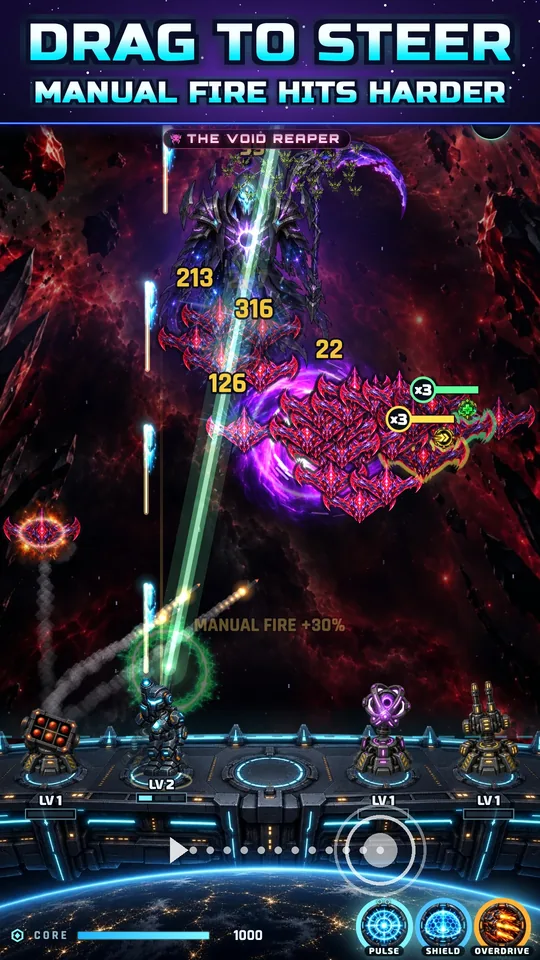
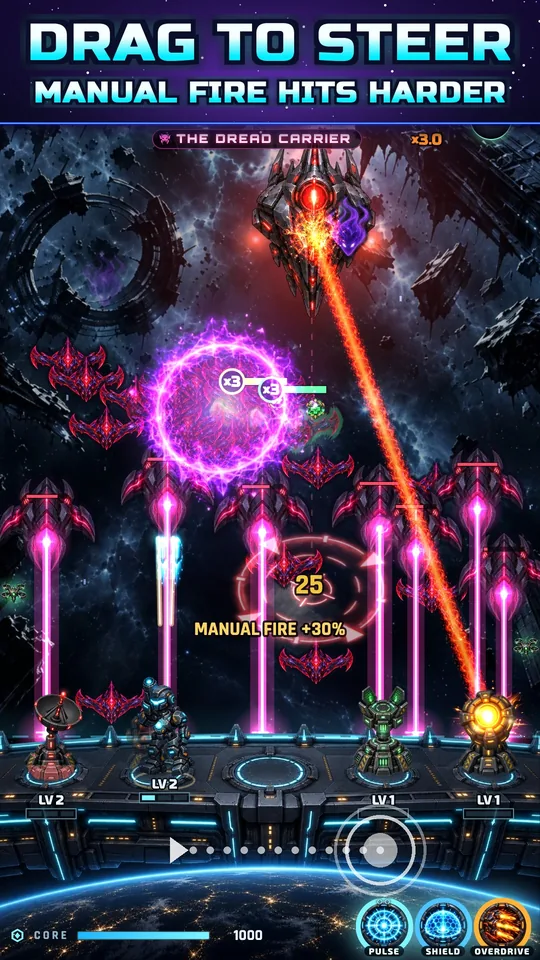
Last Orbit: v5 store shots, delete-data link in footer, privacy controller and ad-topic wording, wordmark

diff --git a/last-orbit/index.html b/last-orbit/index.html
@@ -160,14 +160,14 @@
   <div class="car rv">
     <button class="car-btn prev" type="button" aria-label="Назад" data-label-ru="Назад" data-label-en="Previous"><svg viewBox="0 0 24 24" fill="none" stroke="currentColor" stroke-width="2.5" aria-hidden="true"><path d="m15 5-7 7 7 7"/></svg></button>
     <div class="car-track" tabindex="0" role="region" aria-label="Скриншоты" data-label-ru="Скриншоты" data-label-en="Screenshots">
-      <figure class="slide"><div class="phone"><img src="img/shots/ru/01_strike.webp" data-src="img/shots/{l}/01_strike.webp" width="540" height="960" loading="lazy" decoding="async" alt="Скриншот: Орда у ядра: смети её одним ударом" data-alt-ru="Скриншот: Орда у ядра: смети её одним ударом" data-alt-en="Screenshot: The horde is here: wipe it out in one tap"></div></figure>
+      <figure class="slide"><div class="phone"><img src="img/shots/ru/01_auto.webp" data-src="img/shots/{l}/01_auto.webp" width="540" height="960" loading="lazy" decoding="async" alt="Скриншот: Пушки стреляют сами, ты собираешь билд" data-alt-ru="Скриншот: Пушки стреляют сами, ты собираешь билд" data-alt-en="Screenshot: Auto guns vs endless hordes: you build, they shoot"></div></figure>
       <figure class="slide"><div class="phone"><img src="img/shots/ru/02_build.webp" data-src="img/shots/{l}/02_build.webp" width="540" height="960" loading="lazy" decoding="async" alt="Скриншот: Выбери 1 из 3: каждый бой — новый билд" data-alt-ru="Скриншот: Выбери 1 из 3: каждый бой — новый билд" data-alt-en="Screenshot: Pick 1 of 3: a new build every run"></div></figure>
-      <figure class="slide"><div class="phone"><img src="img/shots/ru/03_free.webp" data-src="img/shots/{l}/03_free.webp" width="540" height="960" loading="lazy" decoding="async" alt="Скриншот: Без доната и без интернета" data-alt-ru="Скриншот: Без доната и без интернета" data-alt-en="Screenshot: No pay-to-win, works offline"></div></figure>
-      <figure class="slide"><div class="phone"><img src="img/shots/ru/04_evo.webp" data-src="img/shots/{l}/04_evo.webp" width="540" height="960" loading="lazy" decoding="async" alt="Скриншот: Соедини две пушки: эволюция" data-alt-ru="Скриншот: Соедини две пушки: эволюция" data-alt-en="Screenshot: Merge two guns: unleash an evolution"></div></figure>
-      <figure class="slide"><div class="phone"><img src="img/shots/ru/05_bosses.webp" data-src="img/shots/{l}/05_bosses.webp" width="540" height="960" loading="lazy" decoding="async" alt="Скриншот: 23 босса: найди слабость каждого" data-alt-ru="Скриншот: 23 босса: найди слабость каждого" data-alt-en="Screenshot: 23 bosses: find every weakness"></div></figure>
+      <figure class="slide"><div class="phone"><img src="img/shots/ru/03_evo.webp" data-src="img/shots/{l}/03_evo.webp" width="540" height="960" loading="lazy" decoding="async" alt="Скриншот: Соедини две пушки: лазер + воронка = 4 луча" data-alt-ru="Скриншот: Соедини две пушки: лазер + воронка = 4 луча" data-alt-en="Screenshot: Merge two guns: laser + well = 4 beams"></div></figure>
+      <figure class="slide"><div class="phone"><img src="img/shots/ru/04_bosses.webp" data-src="img/shots/{l}/04_bosses.webp" width="540" height="960" loading="lazy" decoding="async" alt="Скриншот: 23 босса: найди слабость каждого" data-alt-ru="Скриншот: 23 босса: найди слабость каждого" data-alt-en="Screenshot: 23 bosses: find every weakness"></div></figure>
+      <figure class="slide"><div class="phone"><img src="img/shots/ru/05_strike.webp" data-src="img/shots/{l}/05_strike.webp" width="540" height="960" loading="lazy" decoding="async" alt="Скриншот: Орда у ядра: удар ядра сметает рой" data-alt-ru="Скриншот: Орда у ядра: удар ядра сметает рой" data-alt-en="Screenshot: Horde at the core: one pulse clears the swarm"></div></figure>
       <figure class="slide"><div class="phone"><img src="img/shots/ru/06_manual.webp" data-src="img/shots/{l}/06_manual.webp" width="540" height="960" loading="lazy" decoding="async" alt="Скриншот: Веди пальцем: ручной огонь сильнее" data-alt-ru="Скриншот: Веди пальцем: ручной огонь сильнее" data-alt-en="Screenshot: Drag to steer: manual fire hits harder"></div></figure>
-      <figure class="slide"><div class="phone"><img src="img/shots/ru/07_sectors.webp" data-src="img/shots/{l}/07_sectors.webp" width="540" height="960" loading="lazy" decoding="async" alt="Скриншот: 10 секторов со своими правилами" data-alt-ru="Скриншот: 10 секторов со своими правилами" data-alt-en="Screenshot: 10 sectors with their own rules"></div></figure>
-      <figure class="slide"><div class="phone"><img src="img/shots/ru/08_hardcore.webp" data-src="img/shots/{l}/08_hardcore.webp" width="540" height="960" loading="lazy" decoding="async" alt="Скриншот: 100 уровней и хардкор" data-alt-ru="Скриншот: 100 уровней и хардкор" data-alt-en="Screenshot: 100 levels and hardcore"></div></figure>
+      <figure class="slide"><div class="phone"><img src="img/shots/ru/07_meta.webp" data-src="img/shots/{l}/07_meta.webp" width="540" height="960" loading="lazy" decoding="async" alt="Скриншот: Качай станцию: таланты, чипы, скины" data-alt-ru="Скриншот: Качай станцию: таланты, чипы, скины" data-alt-en="Screenshot: Upgrade your station: talents, chips, skins"></div></figure>
+      <figure class="slide"><div class="phone"><img src="img/shots/ru/08_bosses2.webp" data-src="img/shots/{l}/08_bosses2.webp" width="540" height="960" loading="lazy" decoding="async" alt="Скриншот: 100 уровней и 10 секторов: хардкор и забег дня" data-alt-ru="Скриншот: 100 уровней и 10 секторов: хардкор и забег дня" data-alt-en="Screenshot: 100 levels, 10 sectors: hardcore and a daily run"></div></figure>
     </div>
     <button class="car-btn next" type="button" aria-label="Вперёд" data-label-ru="Вперёд" data-label-en="Next"><svg viewBox="0 0 24 24" fill="none" stroke="currentColor" stroke-width="2.5" aria-hidden="true"><path d="m9 5 7 7-7 7"/></svg></button>
     <div class="dots"></div>
@@ -342,6 +342,7 @@
     <nav class="foot-links" aria-label="Links">
       <a href="../"><span class="ru">Студия</span><span class="en">Studio</span></a>
       <a href="privacy/"><span class="ru">Политика конфиденциальности</span><span class="en">Privacy policy</span></a>
+      <a href="delete-data/"><span class="ru">Удаление данных</span><span class="en">Delete my data</span></a>
       <a href="mailto:onetapgaragestudio@gmail.com">onetapgaragestudio@gmail.com</a>
     </nav>
     <p class="legal">© 2026 OneTap Garage. <span class="ru">Google Play и логотип Google Play — товарные знаки Google LLC.</span><span class="en">Google Play and the Google Play logo are trademarks of Google LLC.</span></p>

diff --git a/last-orbit/privacy/index.html b/last-orbit/privacy/index.html
@@ -54,14 +54,14 @@
       <li>данные о показах рекламы и нажатиях на неё;</li>
       <li>источник установки игры из Google Play (install referrer).</li>
     </ul>
-    <p><strong>Игра не запрашивает доступ к геолокации</strong>, а передача местоположения в рекламном SDK отключена.</p>
+    <p><strong>Игра не запрашивает доступ к геолокации</strong>, а передача местоположения в рекламном SDK отключена. В настройках рекламной сети для игры заблокированы тематики «Знакомства» и «Нижнее бельё»; остальная реклама показывается по правилам Рекламной сети Яндекса.</p>
     <p>Эти данные обрабатывает Яндекс по своей политике: <a href="https://yandex.ru/legal/confidential/" rel="noopener">yandex.ru/legal/confidential</a>. Они нужны, чтобы подбирать рекламу, ограничивать частоту показов, считать статистику и защищаться от мошенничества.</p>
     <p>Персонализацию рекламы можно отключить или сбросить рекламный идентификатор в настройках Android: «Настройки → Google → Реклама» или «Настройки → Конфиденциальность → Реклама» (названия зависят от устройства).</p>
 
     <h3>Европа (ЕЭЗ), Великобритания и Швейцария</h3>
     <p>Если вы играете из этих стран, при первом запуске игра спрашивает, можно ли показывать рекламу по вашим интересам. Пока вы не разрешили, реклама показывается без персонализации. Выбор можно поменять или отозвать в любой момент: «Настройки → Персонализированная реклама».</p>
     <ul>
-      <li><b>Кто отвечает за данные (контролёр).</b> Владелец аккаунта разработчика OneTap Garage; имя и страна указаны в разделе «О разработчике» на странице игры в Google Play. Связь: onetapgaragestudio@gmail.com.</li>
+      <li><b>Кто отвечает за данные (контролёр).</b> Алина Космик, владелец аккаунта разработчика OneTap Garage (страна указана в разделе «О разработчике» на странице игры в Google Play). Связь: <a href="mailto:onetapgaragestudio@gmail.com">onetapgaragestudio@gmail.com</a>.</li>
       <li><b>Основания.</b> Персонализированная реклама — ваше согласие. Неперсонализированная реклама (показ, ограничение частоты, защита от мошенничества) — законный интерес в том, чтобы игра оставалась бесплатной.</li>
       <li><b>Передача за пределы ЕЭЗ.</b> Рекламные данные обрабатывает Яндекс, в том числе за пределами ЕЭЗ, включая Россию, для которой нет решения ЕС о достаточном уровне защиты. Данные для персонализированной рекламы передаются только после вашего согласия и под защитными мерами, описанными в политике Яндекса.</li>
       <li><b>Сроки хранения.</b> Сами мы персональные данные игроков не храним. Ваши письма храним до 12 месяцев после ответа. Данные, которые обрабатывает Яндекс, хранятся и удаляются по его правилам.</li>
@@ -100,14 +100,14 @@
       <li>data about ad impressions and clicks;</li>
       <li>the Google Play install source (install referrer).</li>
     </ul>
-    <p><strong>The game does not ask for location access</strong>, and location sharing is turned off in the ad SDK.</p>
+    <p><strong>The game does not ask for location access</strong>, and location sharing is turned off in the ad SDK. The "Dating" and "Lingerie" ad topics are blocked in the game's ad network settings; all other ads follow the Yandex Advertising Network rules.</p>
     <p>Yandex processes this data under its own policy: <a href="https://yandex.com/legal/confidential/" rel="noopener">yandex.com/legal/confidential</a>. It is used to select ads, cap how often they show, measure results and prevent fraud.</p>
     <p>You can opt out of ad personalisation or reset the advertising ID in Android settings: "Settings → Google → Ads" or "Settings → Privacy → Ads" (names vary by device).</p>
 
     <h3>Europe (EEA), the United Kingdom and Switzerland</h3>
     <p>If you play from these countries, the game asks on first launch whether ads may be based on your interests. Until you allow it, ads are not personalised. You can change or withdraw your choice at any time under "Settings → Personalised ads".</p>
     <ul>
-      <li><b>Controller.</b> The owner of the OneTap Garage developer account; their name and country are shown under "About the developer" on the game's Google Play page. Contact: onetapgaragestudio@gmail.com.</li>
+      <li><b>Controller.</b> Alina Kosmyk, owner of the OneTap Garage developer account (country shown under "About the developer" on the game's Google Play page). Contact: <a href="mailto:onetapgaragestudio@gmail.com">onetapgaragestudio@gmail.com</a>.</li>
       <li><b>Legal basis.</b> Personalised ads: your consent. Non-personalised ads (showing ads, frequency capping, fraud prevention): our legitimate interest in keeping the game free.</li>
       <li><b>Transfers outside the EEA.</b> Ad data is processed by Yandex, including outside the EEA and in Russia, which has no EU adequacy decision. Data for personalised ads is transferred only after your consent and under the safeguards described in Yandex's policy.</li>
       <li><b>Retention.</b> We do not store players' personal data ourselves. Emails you send us are kept for up to 12 months after we reply. Data processed by Yandex is kept and deleted under Yandex's rules.</li>

diff --git a/index.html b/index.html
@@ -68,7 +68,7 @@
 <section class="studio-hero" aria-labelledby="studio-title">
   <i class="orbit-ring" aria-hidden="true"></i>
   <p class="kick rv"><span class="ru">Инди-разработчик мобильных игр</span><span class="en">Indie mobile game developer</span></p>
-  <h1 class="wordmark rv" id="studio-title"><span>ONETAP</span>GARAGE</h1>
+  <h1 class="wordmark rv" id="studio-title"><span>ONETAP</span> GARAGE</h1>
   <p class="lead rv"><span class="ru">Last Orbit — наша первая игра. Бесплатно на Android, обновления и новые режимы в планах.</span><span class="en">Last Orbit is our first game, free on Android. Updates and new modes are on the way.</span></p>
 </section>
 
